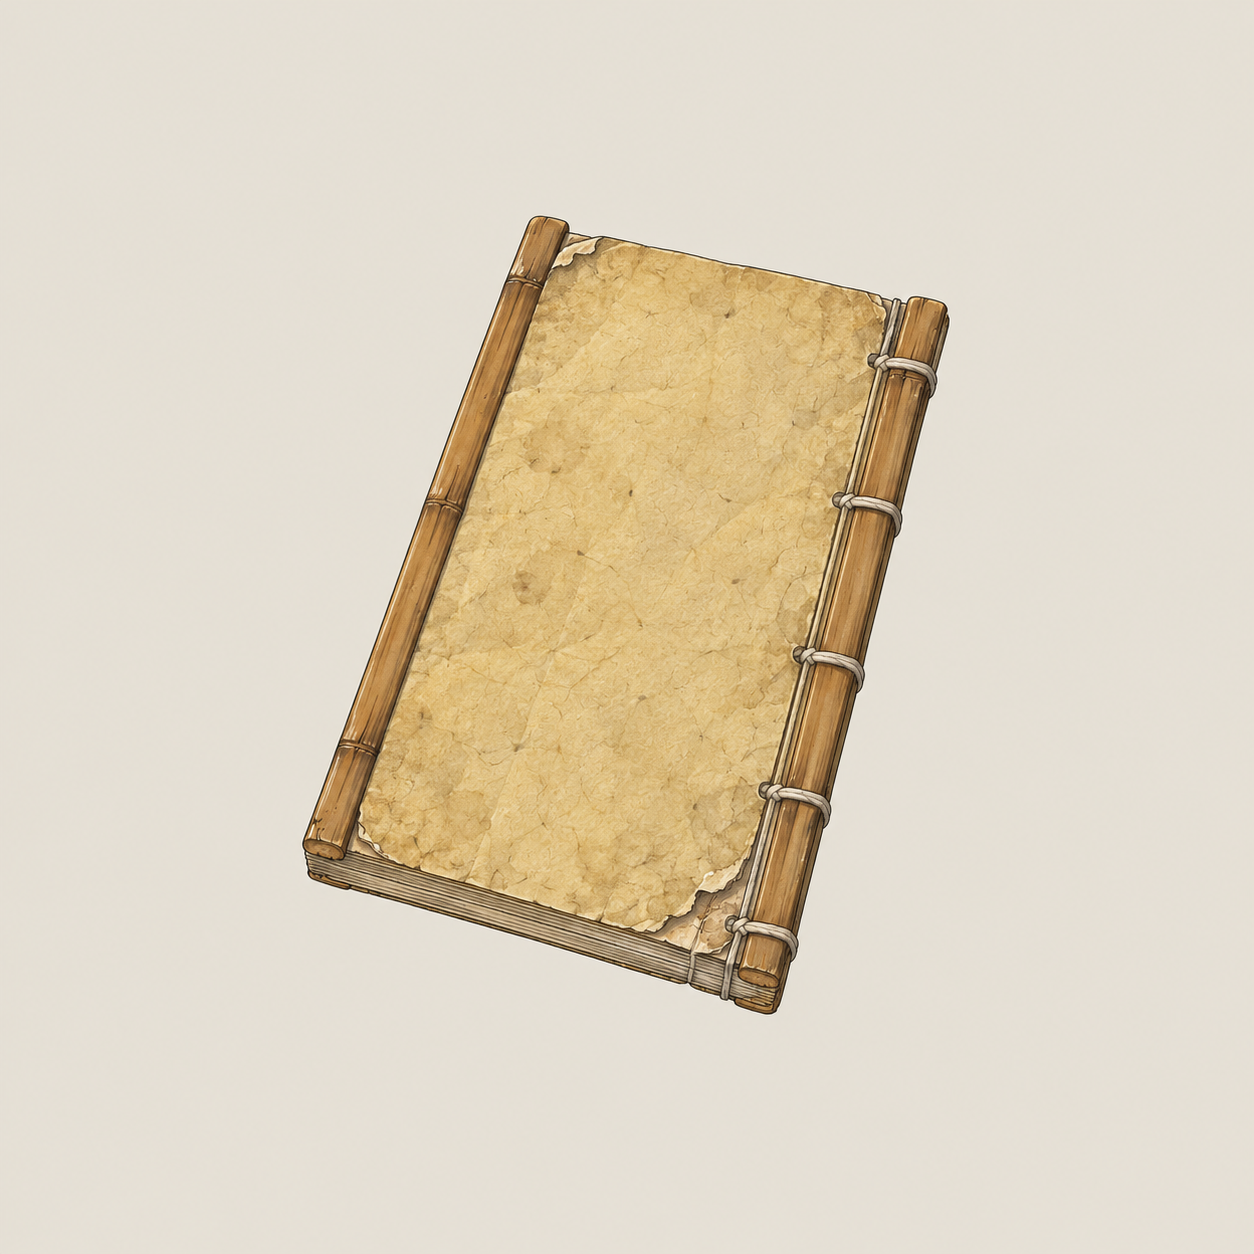
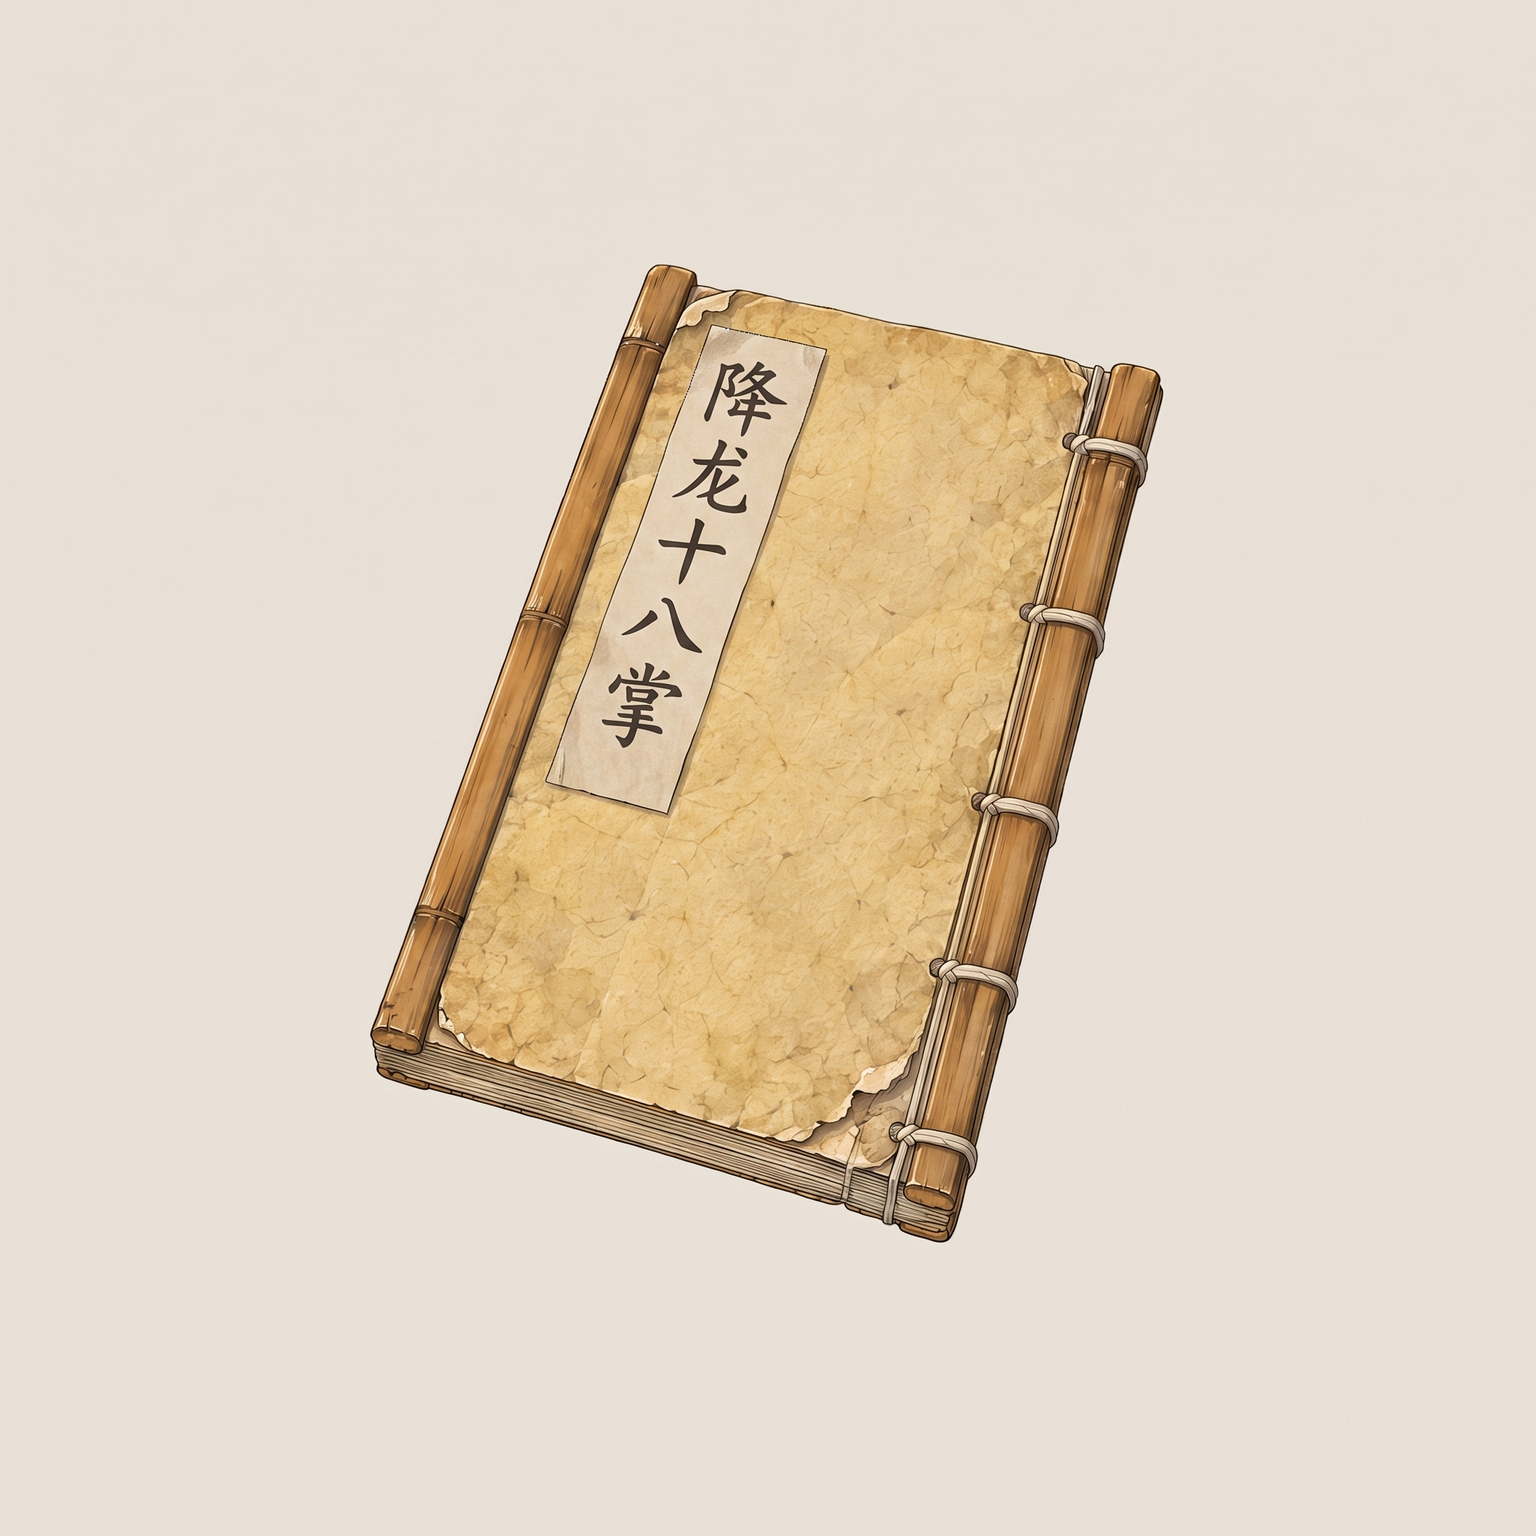
assets(gemini): it_miji_xianglong18_can 降龙十八掌残本

Changed region(s): [[0.2488, 0.2177, 0.7464, 0.8086], [0.3421, 0.1866, 0.5598, 0.5287], [0.2488, 0.5909, 0.311, 0.622]]

diff --git a/assets/default/prompts/INDEX.md b/assets/default/prompts/INDEX.md
@@ -3,7 +3,7 @@
 > 本文件由 `tools/agents/build_image_index.py` 生成，不要手改；改提示词就改各文件，改规程就改各组 `GUIDE.md`，然后重新生成。
 > 人物立绘另见 `characters/INDEX.md`（别的 agent 在出，不在本索引）。建筑套件与贴片已出齐，只列完成度。
 
-提示词 **627** 份：已入库 263、待出图 230、已通过（作者） 134。**待出图队列 230 行**（`python3 tools/agents/build_image_index.py --queue`）。
+提示词 **627** 份：已入库 264、待出图 230、已通过（作者） 133。**待出图队列 230 行**（`python3 tools/agents/build_image_index.py --queue`）。
 
 ## 出图 agent 怎么用
 
@@ -387,7 +387,7 @@
 | 114 | 猪肚 | `it_zhudu` | 黄 | 食材·肉 | 待出图 | [it_zhudu.md](items/food/it_zhudu.md) | template |
 | 115 | 猪肉 | `it_zhurou` | 黄 | 食材·肉 | 待出图 | [it_zhurou.md](items/food/it_zhurou.md) | template |
 
-### 武学秘籍（18）· 已入库 16、已通过（作者） 2
+### 武学秘籍（18）· 已入库 17、已通过（作者） 1
 
 （已全部入库。）
 
